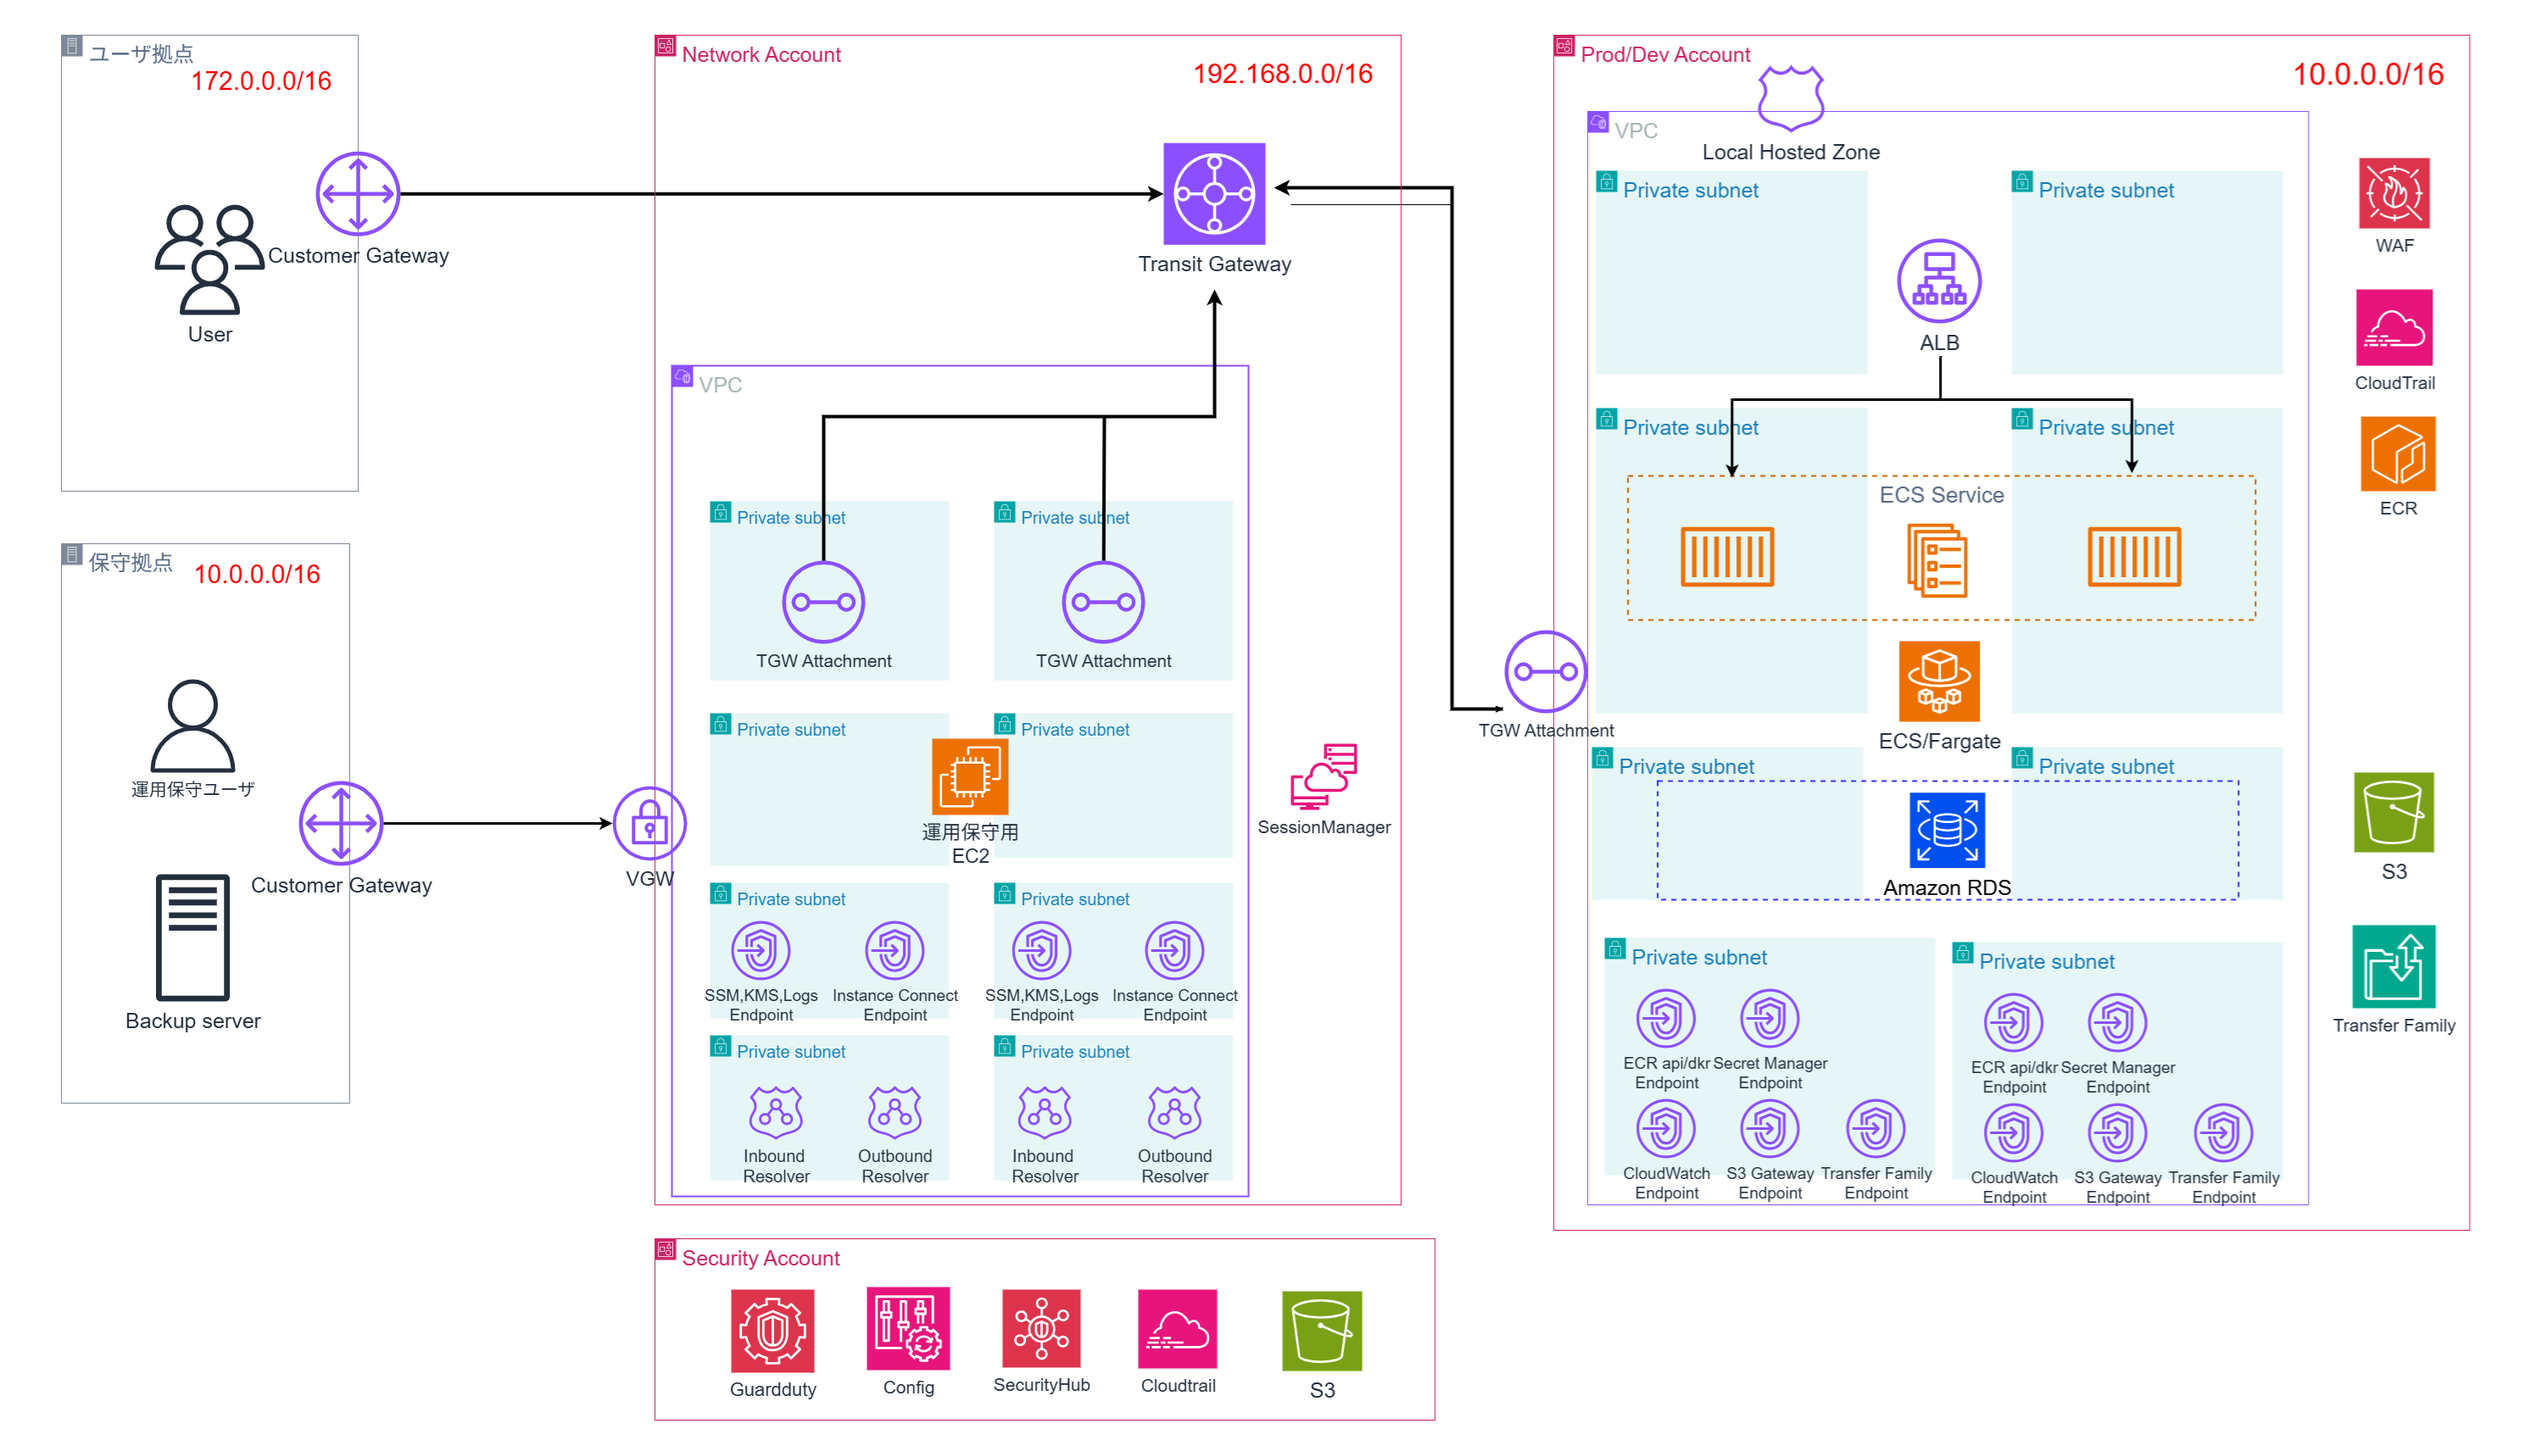
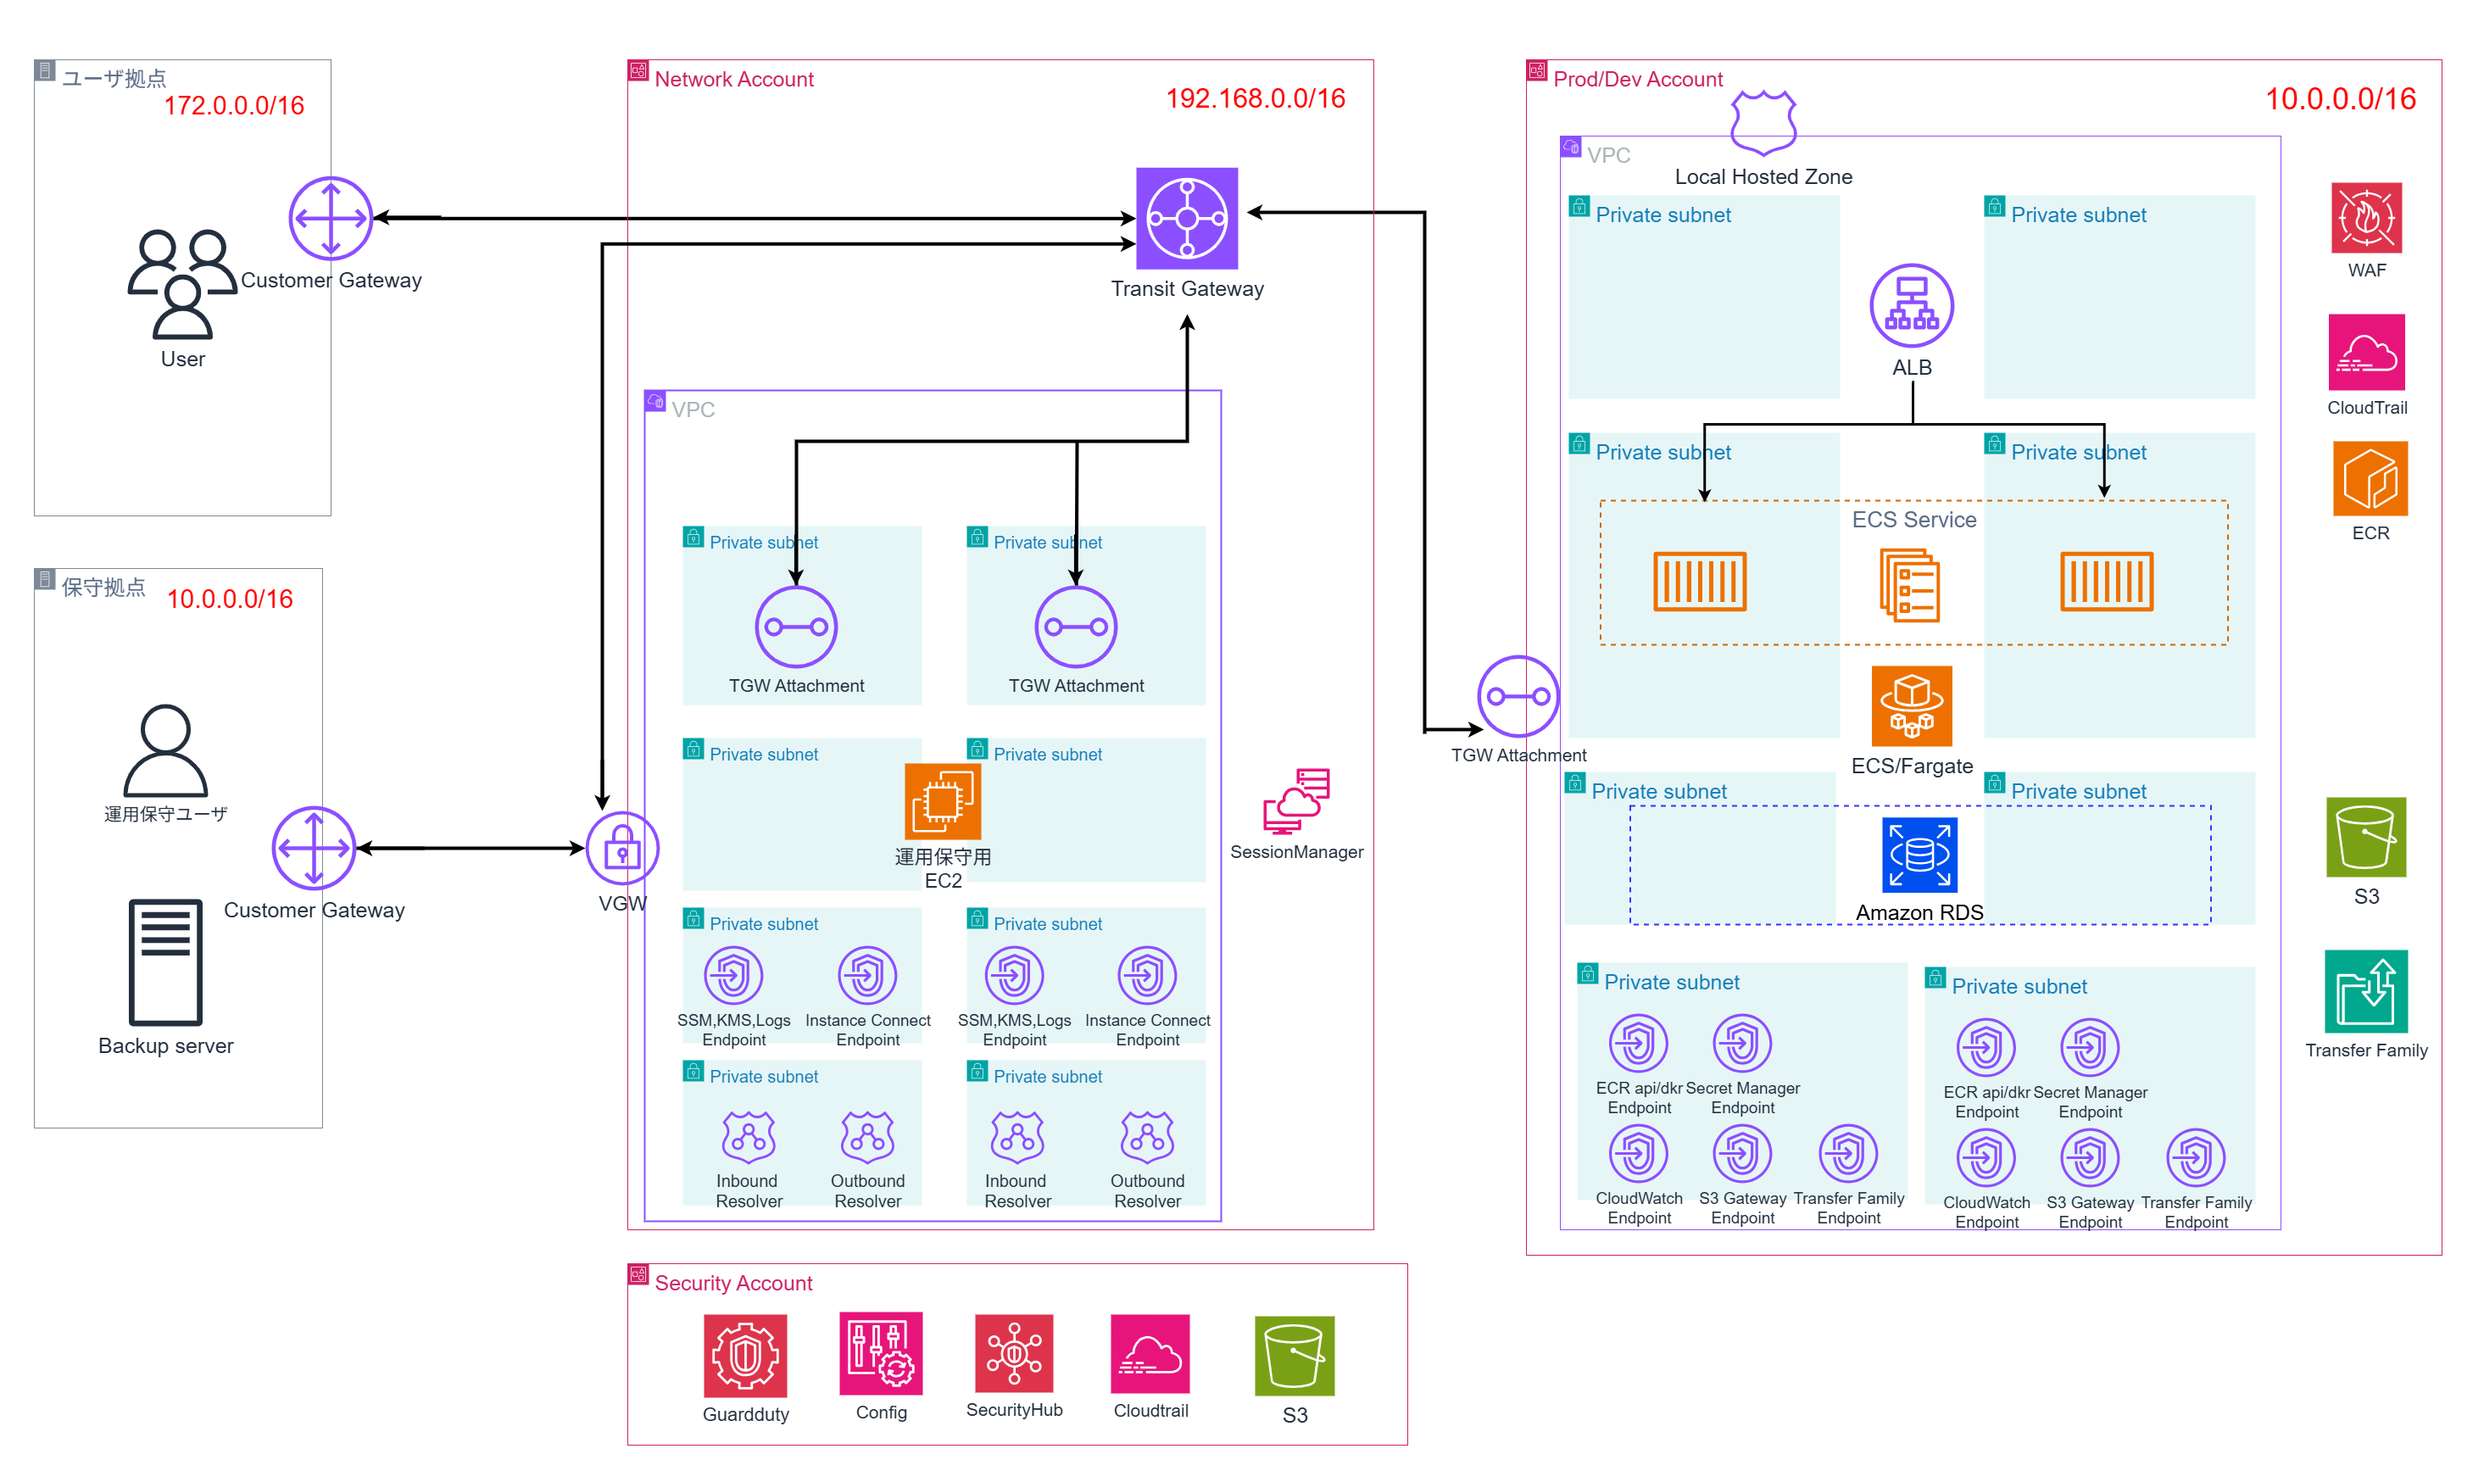
ネットワークアカウント設計書作成。

diff --git a/readme.md b/readme.md
@@ -43,4 +43,154 @@ Transfer Family（VPC Hosted）→ オンプレ Backup サーバ
 
 ### ネットワークアカウント
 
+VPC：192.168.0.0/16（インターネット未接続、IGW/NATGW なし）
+AZ：2AZ（例：ap-northeast-1a/1c）
+
+サブネット
+bastion-a：192.168.10.0/24（EC2踏み台、VPCエンドポイント）
+bastion-c：192.168.11.0/24
+
+tgw-attach-a：192.168.50.0/28（TGW アタッチ用）
+tgw-attach-c：192.168.50.16/28
+
+resolver-in-a : 192.168.60.0/28
+resolver-in-c : 192.168.60.16/28
+resolver-out-a : 192.168.61.0/28
+resolver-out-c : 192.168.61.16/28
+
+endpoint-a : 192.168.20.0/28
+endpoint-c : 192.168.21.0/28
+
+vpc内ルートテーブル
+bastion-a,cに紐づけ
+192.168.0.0/16 → local
+Prod/Dev 向け：10.0.0.0/16 → tgwを通る
+
+tgw-attach-a,c
+local
+
+resolver-in,out
+local
+
+Transit Gateway (TGW)
+市役所ユーザ → アプリだけ見える
+運用者 → 踏み台から Prod/Dev に入れる
+データセンター → SFTP バックアップだけ通す
+
+
+アタッチメント計4つ：
+att-user-vpn（ユーザ拠点 Site-to-Site VPN）
+att-vgw（Ops/DC 側 VGW アタッチ）※VGW と TGW を接続
+att-network-vpc（ネットワークアカウントVPC）
+att-dev（Dev VPC）
+
+
+ルートテーブル
+rt-user（ユーザ向け）
+関連付け：att-user-vpn
+伝播許可：att-prod / att-dev
+載せない：att-network-vpc / att-vgw
+→ ユーザからは Prod/Dev だけ見える（ALB でCIDR制限＋WAF）
+
+rt-spoke→network（Spoke から Network へ）
+関連付け：att-prod, att-dev
+伝播許可：att-network-vpc, att-user-vpn
+→ Prod/Dev 側の戻り道（ユーザ/Network への復路）を作る
+
+rt-network→spoke（Network から Spoke へ）
+関連付け：att-network-vpc
+伝播許可：att-prod, att-dev
+→ 踏み台 EC2 から Spoke（ECS/RDS 等）へ
+
+DC（VGW）経路の扱い
+Transfer Family 用のサブネット (/26) だけを TGW に広告（「この道だけ AWS に来てね」と指定）。
+DC 側には「10.0.0.0/16（自分のネットワーク）」と「10.0.20.0/26（AWS の Transfer サブネット）」の2つがある。
+ルーティングのルールで より長い /26 が優先されるので、SFTP の通信だけ AWS に来る。
+他の 10.0.0.0/16 宛は DC 内にとどまる
+
+
+Site-to-Site VPN
+ユーザ拠点 → TGW（att-user-vpn）
+ルート広告：Prod/Dev のみ（ALB 経由でアプリ閲覧）
+Ops/DC → VGW（Network VPC）
+ルート広告：Network VPC（192.168.0.0/16） と、（必要時のみ）Prod の Transfer 用サブネットの more specific（例 /26）
+トンネルは本静的ルート（シンプル）。BGP なら prefix-list で /26 のみ許可。
+運用作業は SSM セッション経由（VPN 経由の SSH は不使用）。バックアップは Transfer Family（VPC hosted） 宛のみ DC から通す。
+
+
+踏み台兼オペレーション EC2
+用途：SSM 経由でログイン、Port Forwarding で ECS/RDS へ到達
+
+配置：bastion-a,c、パブリックIP無し
+
+OS/サイズ：AL2023 / t3.small
+
+IAM ロール：AmazonSSMManagedInstanceCore + S3/CloudWatchLogs への最小権限
+
+SSM 関連：ドキュメント AWS-StartPortForwardingSessionToRemoteHost を使用
+
+例：RDS に 5432/TCP フォワード
+
+aws ssm start-session \
+  --target i-xxxxxxxx \
+  --document-name AWS-StartPortForwardingSessionToRemoteHost \
+  --parameters host="10.0.12.34",portNumber="5432",localPortNumber="15432"
+
+ECS タスク ENI へも同様（タスクIP/ポートを指定）
+セキュリティグループ（最小）
+Inbound：なし（SSM 経由のため不要）
+Outbound：
+ssm, ssmmessages, ec2messages, logs, kms VPCエンドポイントのSGへ
+Prod/Dev CIDR（10.0.0.0/16）→ tgw（踏み台→Spoke 通信用）
+
+ VPC エンドポイント
+Interface：ssm / ssmmessages / ec2messages / logs / kms/EC2 instance connect
+
+サブネット：endpoint-a,c
+SG：踏み台 EC2 からの 443 のみ許可
+
+
+DNA
+Inbound/Outbound Endpoints：resolver-in-* / resolver-out-*
+フォワードルール
+onprem.example.local → Ops/DC の DNS（Outbound）
+AWS Private Zone 名（例：prod.internal, dev.internal） は PHZ を Prod/Dev に作成し RAM 共有。
+各 VPC のデフォルトリゾルバを使い、Network VPC からも名前解決可。
+オンプレ → AWS 名解決：オンプレDNS から Inbound Endpoint 宛にフォワード
+
+
+セキュリティ（最小で中央集約）
+ログ出力先：Security アカウントの S3（KMS 暗号化）
+VPC Flow Logs（Network VPC）
+Transit Gateway Flow Logs（TGW 全体）
+ALB/WAF/CloudTrail は各アカウントから同 S3 に集約（本設計外だが前提）
+KMS：Organization 共有の CMK（Security 側）を参照
+
+アクセス境界
+ユーザ拠点→Prod/Dev の ALB のみ（ALB SG/WAF でユーザ CIDR を許可）
+Ops/DC → Transfer Family 用サブネットのみ（TGW ルートと SG でピンポイント化）
+踏み台 EC2 → Spoke 全体（運用都合上。ただし SG で最小化）
+
+
+バックアップ経路（RDS→S3→Transfer→DC）
+RDS 論理ダンプ：ECS タスク or SSM Run Command で S3（Prodの専用バケット）へ出力
+Transfer Family（VPC Hosted）：Prod VPC 内 NLB/ENI を 専用 /26 に配置
+TGW ルート：att-vgw に対し /26 のみ Spoke（Prod）へスタティック追加
+Ops/DC：オンプレ側に同じ /26 の静的経路（または BGP で許可）を入れる
+SG：Transfer の SG は DC のバックアップサーバ /32 のみ 22/端口許可（SFTP/FTPS）
+これで 重複 CIDR を崩さず、DC からは Transfer だけに到達可能。運用作業は引き続き SSM ポートフォワード。
+
+
+リソース作成順番
+TGW 作成（3 ルートテーブル：rt-user / rt-spoke→network / rt-network→spoke）
+Network VPC（サブネット作成 → tgw attach / resolver in/out / mgmt 用 rt）
+VPC エンドポイント（ssm 系＋logs/kms）、踏み台 EC2、IAM ロール
+ユーザ拠点 VPN（→TGW）：att-user-vpn を rt-user に関連付け
+Ops/DC VPN（→VGW→TGW）：att-vgw を作成、Transfer 用 /26 のみ通す
+Prod/Dev 側アタッチ と rt-spoke→network 連携（復路含め）
+Resolver 設定（オンプレ連携・PHZ 共有）
+FlowLogs/TGW Logs を Security S3 へ
+
+
+
 
